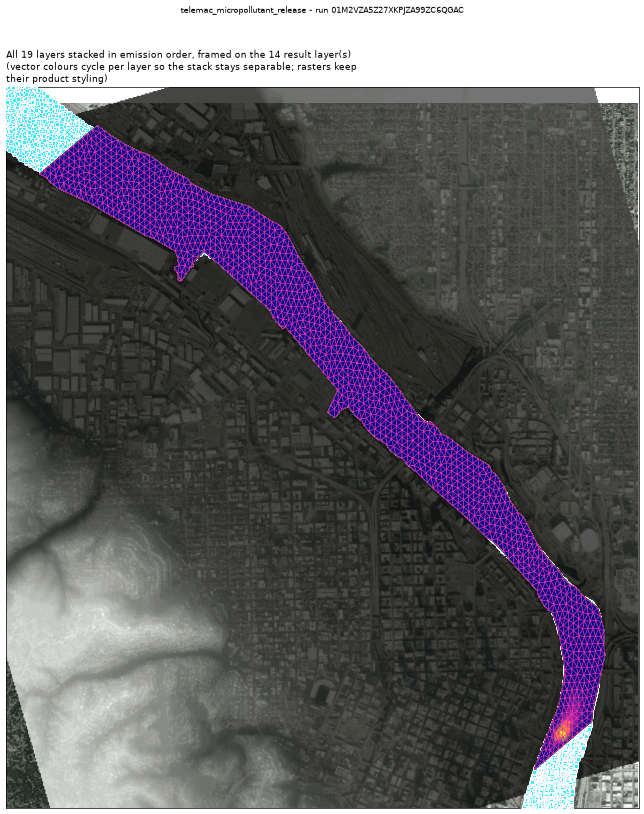
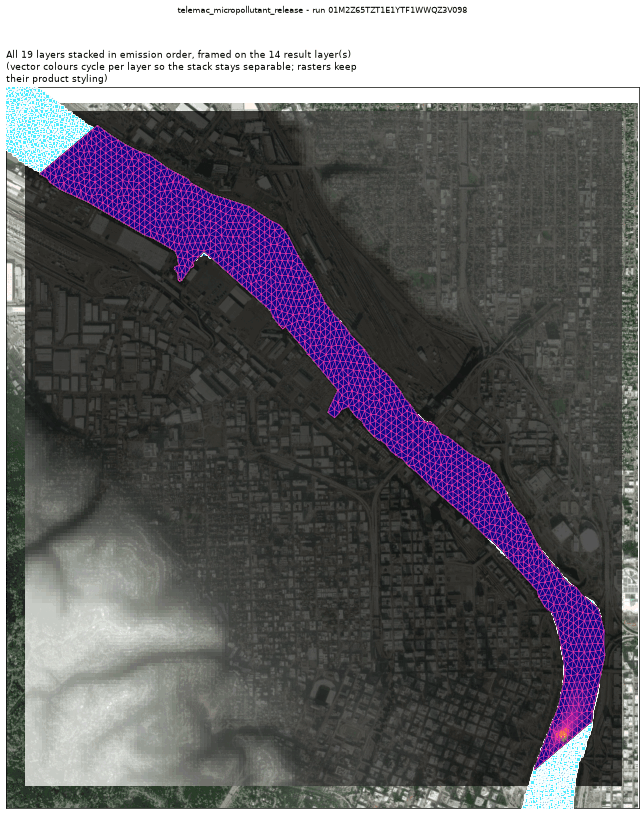
docs: the micropollutant page is pinned to a run this tree made
The page carried a run whose declaration overrode the source strength five
times over. The deck states its own release, so the re-pinned run answers at
the concentration the template itself releases.

Claude-Session: https://claude.ai/code/session_011wCduZ7TyoMtpZoGZfh2Rw

diff --git a/docs/templates/telemac_micropollutant_release.md b/docs/templates/telemac_micropollutant_release.md
@@ -39,20 +39,20 @@ The values the template declares. `desc` is what the model reads when it fills o
 
 | field | the proving run's value |
 |---|---|
-| `dissolved_cmax_mgl` | 0.002726218430325389 |
+| `dissolved_cmax_mgl` | 0.0004999350057914853 |
 | `dissolved_peak_time_s` | 14400.0 |
-| `dissolved_travel_m` | 146.4 |
-| `dissolved_final_mean_mgl` | 0.004351620992220561 |
-| `suspended_sorbed_final_mean_mgl` | 0.0008982747679195556 |
-| `bed_sorbed_final_mean_g_m2` | 3.761992697592254e-05 |
-| `sorbed_over_dissolved` | 0.20642302478212393 |
+| `dissolved_travel_m` | 130.1 |
+| `dissolved_final_mean_mgl` | 0.0008009465932218154 |
+| `suspended_sorbed_final_mean_mgl` | 0.0001654770489934775 |
+| `bed_sorbed_final_mean_g_m2` | 7.015834675604677e-06 |
+| `sorbed_over_dissolved` | 0.2066018513517168 |
 | `mesh_size_m` | 20.888 |
 
 It publishes these layers onto the canvas:
 
-- Input: river reach (river_reach)
-- Input: channel survey soundings (ehydro_surveys)
-- Input: bed elevation (dem, 3DEP 1-10 m US lidar (default 10 m); Copernicus GLO-30 30 m global via source=copernicus, datum NAVD88 (metres, positive up))
+- Input: domain (river_reach)
+- Input: bed (ehydro_surveys)
+- Input: bed (3dep_extra, datum NAVD88 (metres, positive up))
 - Release point (user) - river_reach_domain
 - Monitoring point (derived) - river_reach_domain
 - Velocity u over time (river_reach_domain_mesh)
@@ -72,31 +72,31 @@ It publishes these layers onto the canvas:
 
 ## The proving run
 
-Run `01M2VZA5Z27XKPJZA99ZC6QGAC`, 2026-09-19T04:39:13.179545+00:00, 108.549 s, at commit `966392d7b95ac996d00a5df14f667096b64a3e2a-dirty`.
+Run `01M2Z65TZT1E1YTF1WWQZ3V098`, 2026-09-20T10:37:15.494666+00:00, 100.553 s, at commit `4906f0691ad38ccf726b79d7f7a8fe5760040315`.
 
-![Every layer the run published, stacked and framed on the result (run 01M2VZA5Z27XKPJZA99ZC6QGAC)](telemac_micropollutant_release/telemac_micropollutant_release.png)
+![Every layer the run published, stacked and framed on the result (run 01M2Z65TZT1E1YTF1WWQZ3V098)](telemac_micropollutant_release/telemac_micropollutant_release.png)
 
-*Every layer the run published, stacked and framed on the result (run 01M2VZA5Z27XKPJZA99ZC6QGAC)*
+*Every layer the run published, stacked and framed on the result (run 01M2Z65TZT1E1YTF1WWQZ3V098)*
 
-![The solve, frame by frame - dissolved (run 01M2VZA5Z27XKPJZA99ZC6QGAC)](telemac_micropollutant_release/telemac_micropollutant_release_animation_dissolved.gif)
+![The solve, frame by frame - dissolved (run 01M2Z65TZT1E1YTF1WWQZ3V098)](telemac_micropollutant_release/telemac_micropollutant_release_animation_dissolved.gif)
 
-*The solve, frame by frame - dissolved (run 01M2VZA5Z27XKPJZA99ZC6QGAC)*
+*The solve, frame by frame - dissolved (run 01M2Z65TZT1E1YTF1WWQZ3V098)*
 
-![The solve, frame by frame - on_the_bed (run 01M2VZA5Z27XKPJZA99ZC6QGAC)](telemac_micropollutant_release/telemac_micropollutant_release_animation_on_the_bed.gif)
+![The solve, frame by frame - on_the_bed (run 01M2Z65TZT1E1YTF1WWQZ3V098)](telemac_micropollutant_release/telemac_micropollutant_release_animation_on_the_bed.gif)
 
-*The solve, frame by frame - on_the_bed (run 01M2VZA5Z27XKPJZA99ZC6QGAC)*
+*The solve, frame by frame - on_the_bed (run 01M2Z65TZT1E1YTF1WWQZ3V098)*
 
-![dissolved peak frame (run 01M2VZA5Z27XKPJZA99ZC6QGAC)](telemac_micropollutant_release/telemac_micropollutant_release_dissolved_peak_frame.png)
+![dissolved peak frame (run 01M2Z65TZT1E1YTF1WWQZ3V098)](telemac_micropollutant_release/telemac_micropollutant_release_dissolved_peak_frame.png)
 
-*dissolved peak frame (run 01M2VZA5Z27XKPJZA99ZC6QGAC)*
+*dissolved peak frame (run 01M2Z65TZT1E1YTF1WWQZ3V098)*
 
-![on the bed final frame (run 01M2VZA5Z27XKPJZA99ZC6QGAC)](telemac_micropollutant_release/telemac_micropollutant_release_on_the_bed_final_frame.png)
+![on the bed final frame (run 01M2Z65TZT1E1YTF1WWQZ3V098)](telemac_micropollutant_release/telemac_micropollutant_release_on_the_bed_final_frame.png)
 
-*on the bed final frame (run 01M2VZA5Z27XKPJZA99ZC6QGAC)*
+*on the bed final frame (run 01M2Z65TZT1E1YTF1WWQZ3V098)*
 
-![dissolved micropollutant - the chart the run persisted (run 01M2VZA5Z27XKPJZA99ZC6QGAC)](telemac_micropollutant_release/telemac_micropollutant_release_chart_dissolved_micropollutant.png)
+![dissolved micropollutant - the chart the run persisted (run 01M2Z65TZT1E1YTF1WWQZ3V098)](telemac_micropollutant_release/telemac_micropollutant_release_chart_dissolved_micropollutant.png)
 
-*dissolved micropollutant - the chart the run persisted (run 01M2VZA5Z27XKPJZA99ZC6QGAC)*
+*dissolved micropollutant - the chart the run persisted (run 01M2Z65TZT1E1YTF1WWQZ3V098)*
 
 ### The sheet it filled
 
@@ -124,9 +124,11 @@ await TOOL_REGISTRY['telemac_micropollutant_release'].fn(
     monitoring_fraction=0.1,
     release={'lon': -122.669784, 'lat': 45.518485, 'name': None},
     release_duration_s=300.0,
-    keywords={'DURATION': 14400.0, 'GRAPHIC PRINTOUT PERIOD': 300, 'VALUES OF THE TRACERS AT THE SOURCES': [500.0, 0.0, 0.0, 0.0, 0.0]},
+    discharge=56.6,
+    level=2.776,
+    keywords={'DURATION': 14400.0, 'GRAPHIC PRINTOUT PERIOD': 300},
 )
 ```
 
-That is the invocation this run came from; the figures above are stamped with run `01M2VZA5Z27XKPJZA99ZC6QGAC` and commit `966392d7b95ac996d00a5df14f667096b64a3e2a-dirty`. The full argument record is [`telemac_micropollutant_release/run.json`](telemac_micropollutant_release/run.json).
+That is the invocation this run came from; the figures above are stamped with run `01M2Z65TZT1E1YTF1WWQZ3V098` and commit `4906f0691ad38ccf726b79d7f7a8fe5760040315`. The full argument record is [`telemac_micropollutant_release/run.json`](telemac_micropollutant_release/run.json).
 

diff --git a/docs/templates/index.md b/docs/templates/index.md
@@ -74,7 +74,7 @@ Module `telemac2d`, proving run `01M2YR0097ETBRS991GWCZXR21`.
 
 A SORBING substance released into water: how much stays DISSOLVED and how much ends up ON THE BED.
 
-Module `telemac2d`, proving run `01M2VZA5Z27XKPJZA99ZC6QGAC`.
+Module `telemac2d`, proving run `01M2Z65TZT1E1YTF1WWQZ3V098`.
 
 ## [`telemac_oil_spill`](telemac_oil_spill.md)
 
